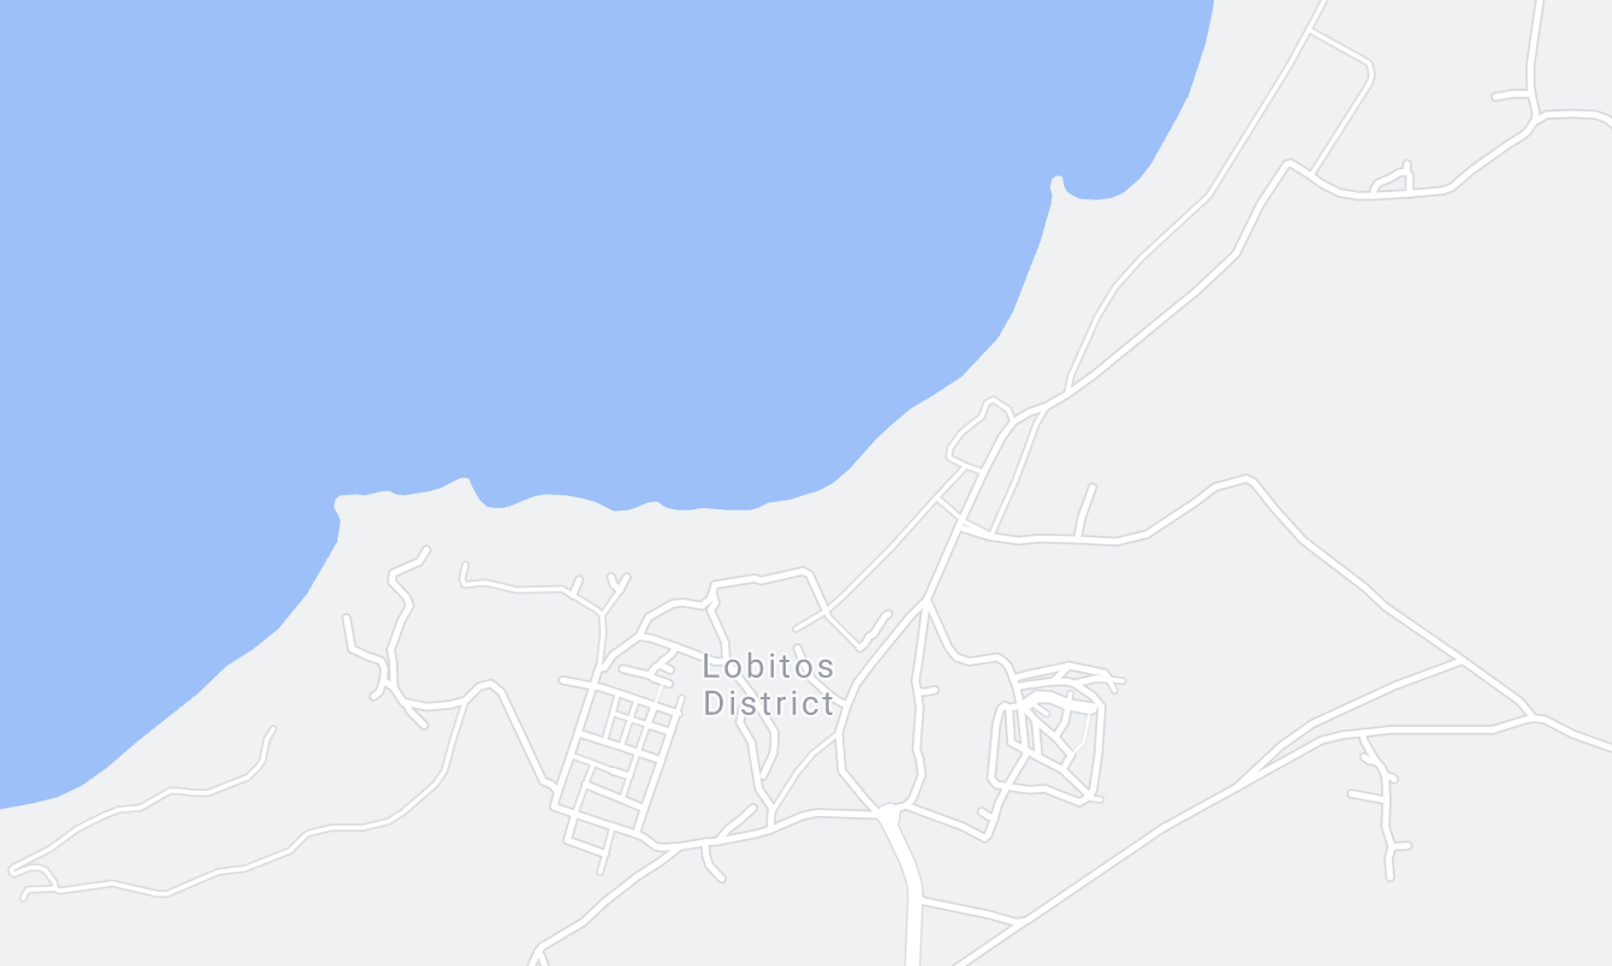
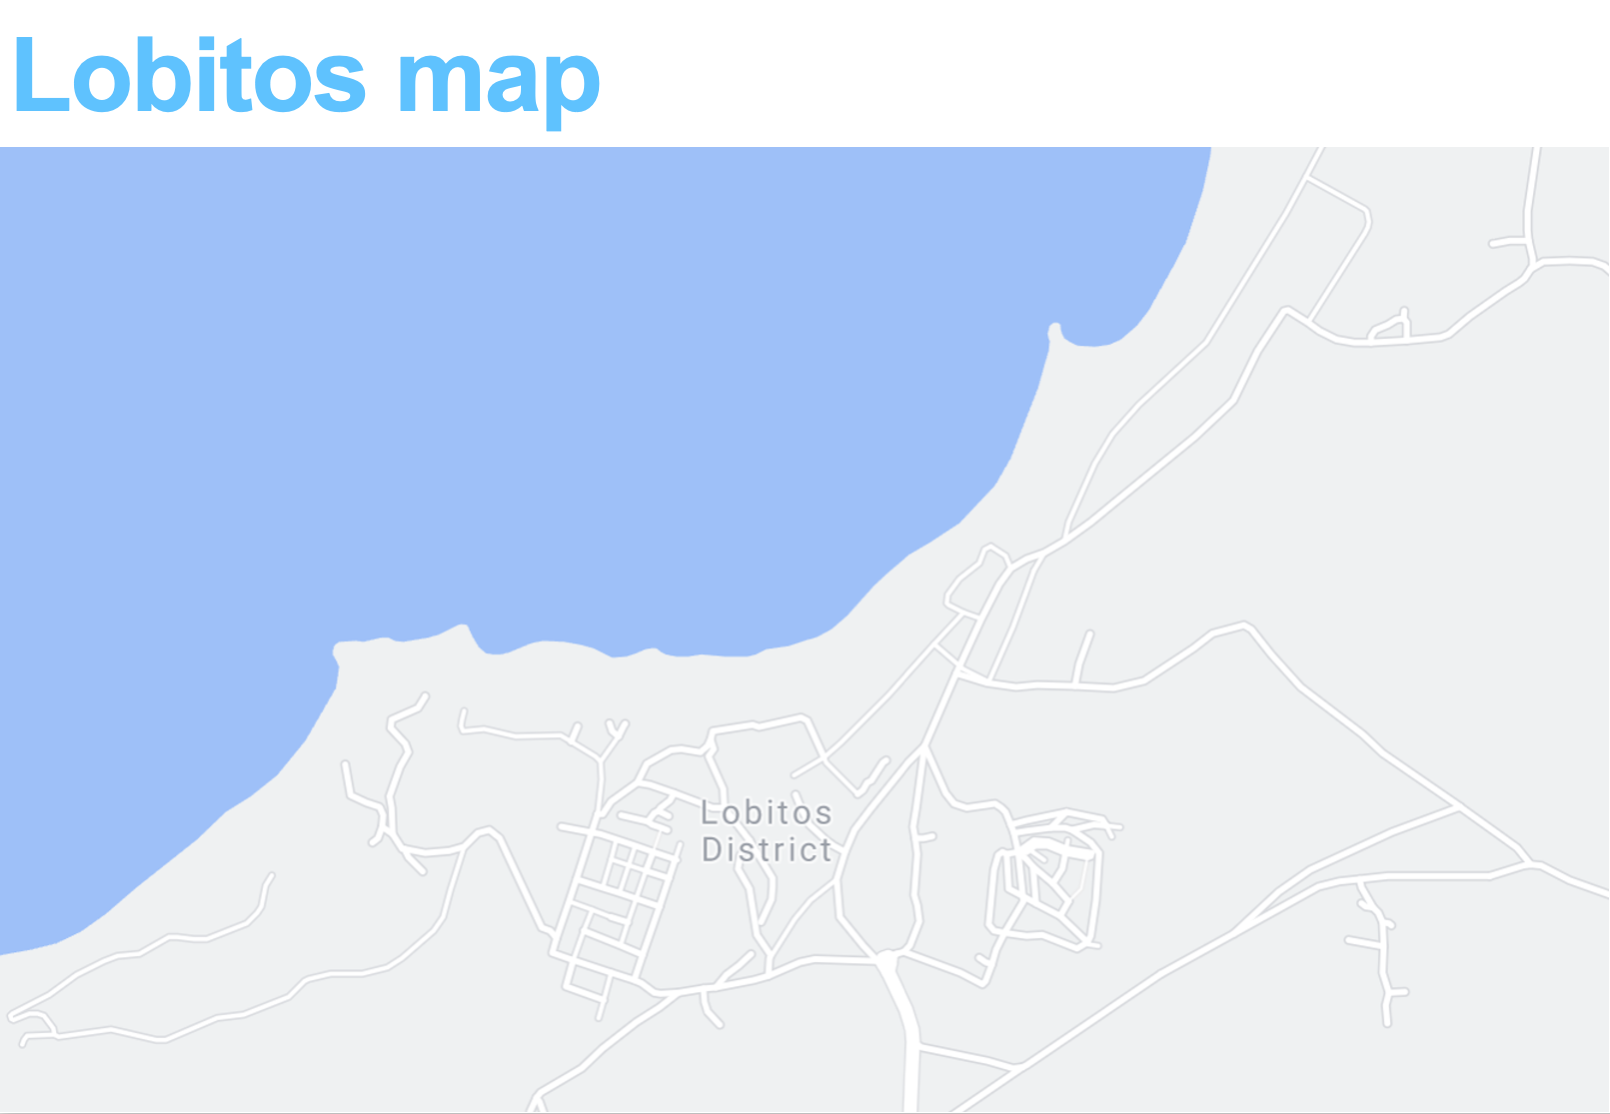
Update in map Pages

diff --git a/Project/src/sample/LobitosMap.java b/Project/src/sample/LobitosMap.java
@@ -11,8 +11,10 @@ import javafx.geometry.Side;
 import javafx.scene.Scene;
 import javafx.scene.control.Button;
 import javafx.scene.control.ChoiceBox;
+import javafx.scene.control.ContentDisplay;
 import javafx.scene.control.Label;
 import javafx.scene.image.Image;
+import javafx.scene.image.ImageView;
 import javafx.scene.layout.*;
 import javafx.scene.text.Font;
 import javafx.scene.text.FontWeight;
@@ -26,28 +28,24 @@ public class LobitosMap extends Application {
     public void start(Stage primaryStage) {
         primaryStage.setTitle("SMART MAP - Lobitos Map");
 
-//        //add background image
-//        Image image=new Image("file: a.jpg");
-//        ImageView mv=new ImageView(image);
-
         // Create the AmpStart Page grid pane
         GridPane lobitosMapGridPane = createLobitosMapGridPane();
-//        lobitosMapGridPane.setStyle("-fx-background-color: #4aa4ef");
+        lobitosMapGridPane.setMaxSize( 800, 550);
         lobitosMapGridPane.setBackground(new Background( createImage("LobitosMap.png")));
-//        lobitosMapGridPane.setStyle("-fx-background-image: " + "url(LobitosMap.png)\n" + "-fx-background-position: center center;");
-
         // Add UI controls to the AmpStart form grid pane
         addUIControlsLobitosMap(lobitosMapGridPane, primaryStage);
         // Set the scene in AmpStart
-        Scene LobitosMapScene = new Scene(lobitosMapGridPane, 800, 500);
+        Scene LobitosMapScene = new Scene(lobitosMapGridPane, 800, 550);
         // Display stage
         primaryStage.setScene(LobitosMapScene);
         primaryStage.show();
     }
 
+
+
     public static void main(String[] args) { launch(args); }
 
-    private static BackgroundImage createImage(String url) {
+     static BackgroundImage createImage(String url) {
         return new BackgroundImage(
                 new Image(url),
                 BackgroundRepeat.REPEAT, BackgroundRepeat.NO_REPEAT,
@@ -59,10 +57,10 @@ public class LobitosMap extends Application {
         // Set new Grid Pane for LoginPage
         GridPane lobitosMapGridPane = new GridPane();
         lobitosMapGridPane.setAlignment(Pos.CENTER);
-        lobitosMapGridPane.setHgap(10);
-        lobitosMapGridPane.setVgap(10);
-        lobitosMapGridPane.setPadding(new Insets(25,25,25,25));
-//        loginGridPane.setPadding(new Insets(40, 40, 40, 40));
+        /*lobitosMapGridPane.setHgap(10);
+        lobitosMapGridPane.setVgap(10);*/
+//        lobitosMapGridPane.setPadding(new Insets(25,25,25,25));
+        lobitosMapGridPane.setPadding(new Insets(0, 0, 0, 0));
         // Add Column Constraints
         ColumnConstraints columnOneConstraints = new ColumnConstraints(100, 100, Double.MAX_VALUE);
         columnOneConstraints.setHalignment(HPos.RIGHT);
@@ -76,6 +74,70 @@ public class LobitosMap extends Application {
 
 
     public static void addUIControlsLobitosMap(GridPane lobitosMapGridPane, Stage primaryStage) {
+
+        //creating image for goals button
+        /*ImageView WCImage = new ImageView(new Image("WC.png"));
+        WCImage.setFitHeight(30);
+        WCImage.setFitWidth(30);
+        WCImage.setSmooth(true);
+        WCImage.setCache(true);*/
+//        Image RecyclingImage = new Image("Recycling.png");
+//        Image BinImage = new Image("Bin.png");
+
+        Background WCImage = new Background( createImage("WC.png"));
+//        Background RecyclingImage = new Background( createImage("Recycling.png"));
+//        Background BinImage = new Background( createImage("Bin.png"));
+
+        // Add WC Button
+        Button wcButton = new Button();
+        wcButton.setBackground(WCImage);
+        //        wcButton.setGraphic(WCImage);
+        wcButton.setPrefSize(25,25);
+        wcButton.setDefaultButton(true);
+        lobitosMapGridPane.add(wcButton, 0, 0);
+//        lobitosMapGridPane.setMargin(wcButton, new Insets(0, -300,510,300));
+        lobitosMapGridPane.setMargin(wcButton, new Insets(0, 35,5,-35));
+
+
+        // Add Toilets Label
+        Label toiletsLabel = new Label("Public toilets");
+        toiletsLabel.setFont(Font.font("Arial", 15));
+        lobitosMapGridPane.add(toiletsLabel, 1,0);
+//        lobitosMapGridPane.setMargin(toiletsLabel, new Insets(0, -300,505,305));
+        lobitosMapGridPane.setMargin(toiletsLabel, new Insets(0, 35,5,-30));
+
+
+        // Add Recycling Button
+        Button recyclingButton = new Button();
+//        recyclingButton.setBackground(RecyclingImage);
+        recyclingButton.setBackground(WCImage);
+        recyclingButton.setPrefSize(25,25);
+        recyclingButton.setDefaultButton(true);
+        lobitosMapGridPane.add(recyclingButton, 0, 1);
+        lobitosMapGridPane.setMargin(recyclingButton, new Insets(0, 35,5,-35));
+
+        // Add Recycling Label
+        Label recyclingLabel = new Label("Recycling Points");
+        recyclingLabel.setFont(Font.font("Arial", 15));
+        lobitosMapGridPane.add(recyclingLabel, 1,1);
+        lobitosMapGridPane.setMargin(recyclingLabel, new Insets(0, 35,5,-30));
+
+
+        // Add Waste Bins Button
+        Button wasteBinsButton = new Button();
+//        wasteBinsButton.setBackground(RecyclingImage);
+        wasteBinsButton.setBackground(WCImage);
+        wasteBinsButton.setPrefSize(25,25);
+        wasteBinsButton.setDefaultButton(true);
+        lobitosMapGridPane.add(wasteBinsButton, 0, 2);
+        lobitosMapGridPane.setMargin(wasteBinsButton, new Insets(0, 35,305,-35));
+
+        // Add Waste Bins Label
+        Label wasteBinsLabel = new Label("Waste bins");
+        wasteBinsLabel.setFont(Font.font("Arial", 15));
+        lobitosMapGridPane.add(wasteBinsLabel, 1,2);
+        lobitosMapGridPane.setMargin(wasteBinsLabel, new Insets(0, 35,305,-30));
+
     }
 
 

diff --git a/Project/src/sample/PiedritasMap.java b/Project/src/sample/PiedritasMap.java
@@ -6,6 +6,7 @@ import javafx.geometry.HPos;
 import javafx.geometry.Insets;
 import javafx.geometry.Pos;
 import javafx.scene.Scene;
+import javafx.scene.layout.Background;
 import javafx.scene.layout.ColumnConstraints;
 import javafx.scene.layout.GridPane;
 import javafx.scene.layout.Priority;
@@ -16,12 +17,11 @@ public class PiedritasMap extends Application {
     @Override
     public void start(Stage primaryStage) {
         primaryStage.setTitle("SMART MAP - Piedritas Map");
-       /* primaryStage.setWidth(800);
-        primaryStage.setHeight(900);*/
         // Create the AmpStart Page grid pane
         GridPane piedritasMapGridPane = createPiedritasMapGridPane();
-        piedritasMapGridPane.setStyle("-fx-background-color: #4aa4ef");
-//        ampStartGridPane.setStyle("-fx-background-color: #3596ee");
+        piedritasMapGridPane.setMaxSize( 800, 550);
+        piedritasMapGridPane.setBackground(new Background( LobitosMap.createImage("PiedritasMap.png")));
+
 
         // Add UI controls to the AmpStart form grid pane
         addUIControlsPiedritasMap(piedritasMapGridPane, primaryStage);
